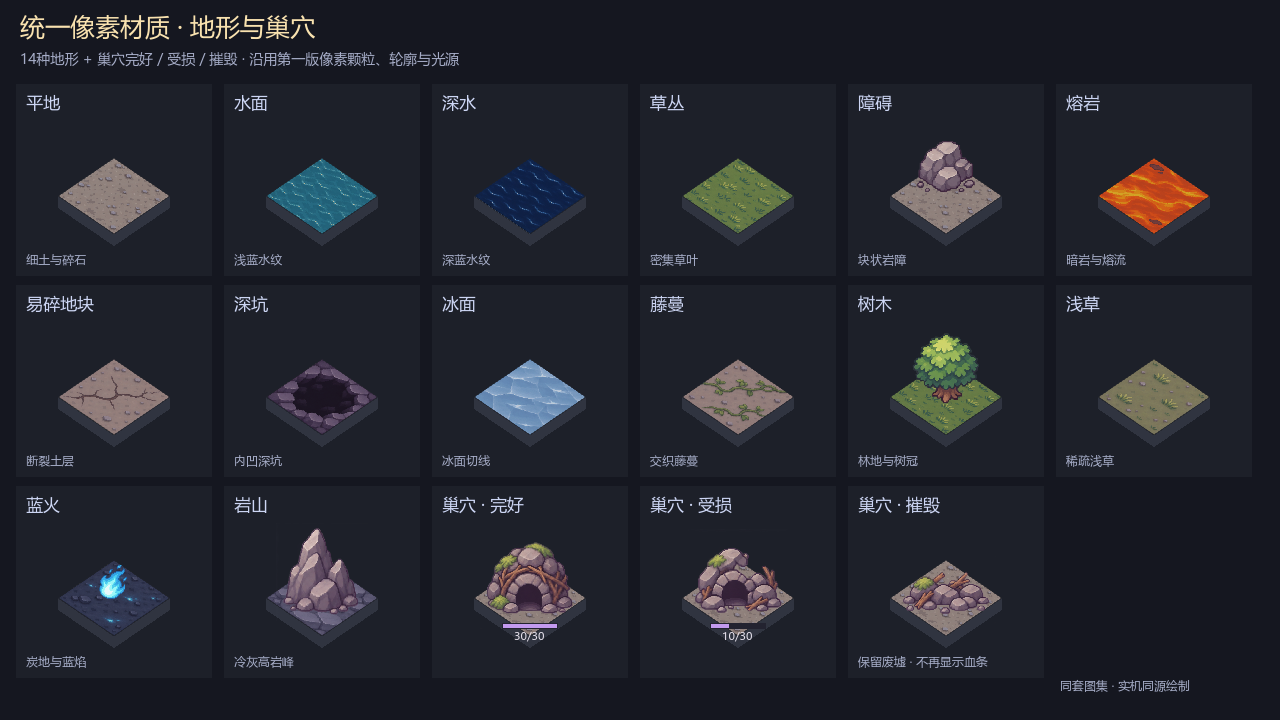
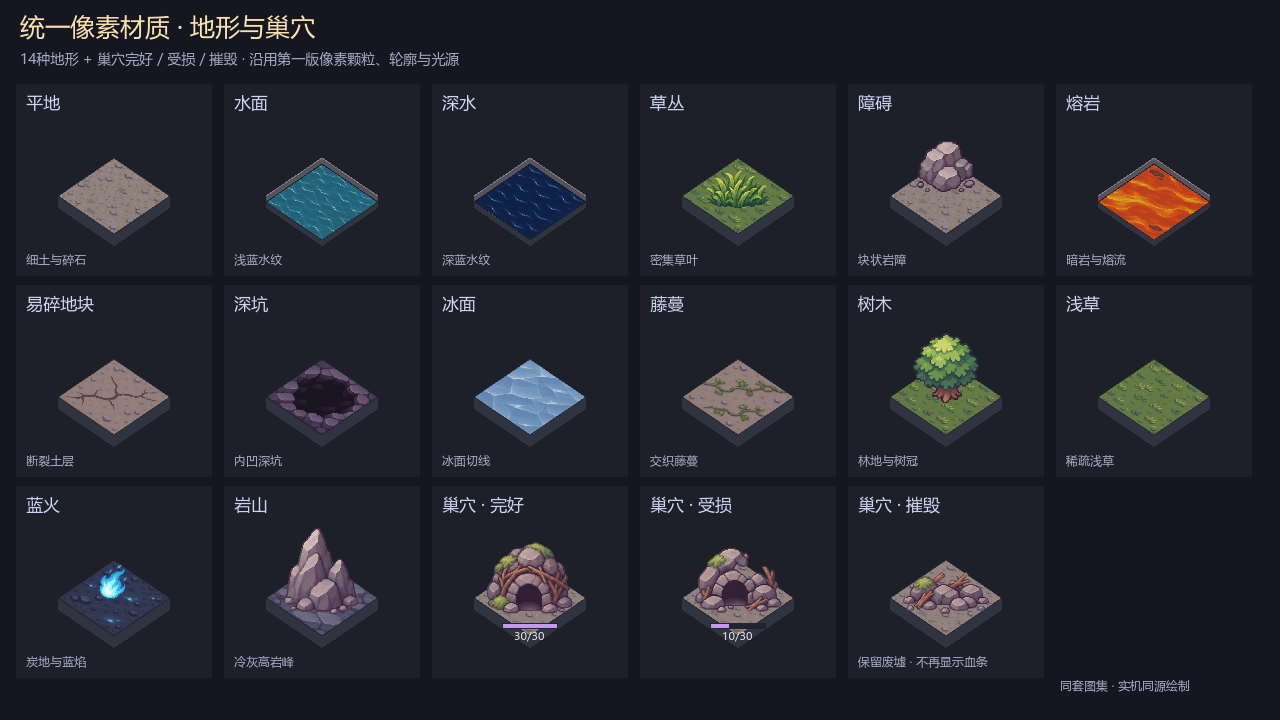
Add fading tall-grass objects and recessed liquid shorelines

diff --git a/assets/pixel_sample/grass-clump-prompt.md b/assets/pixel_sample/grass-clump-prompt.md
@@ -1,0 +1,7 @@
+# 草丛物体 v1
+
+由 imagegen 生成，参考 `atlas-v1.png` 的树木和草地配色，透明背景。
+
+Prompt: One isolated upright tall-grass clump for an isometric pixel-art tactical RPG. Muted olive and moss greens, yellow-green top-left highlights, dark forest-green base. Wide low mound of pointed blades, elevated 3/4 view, stepped pixel edges and broad clusters. Effective resolution approximately 80x48. Transparent background, no ground, labels, border, or other objects.
+
+运行时按 94x52 绘制；单位占据格子时草簇透明度为 0.32，单位自身保持不透明。
